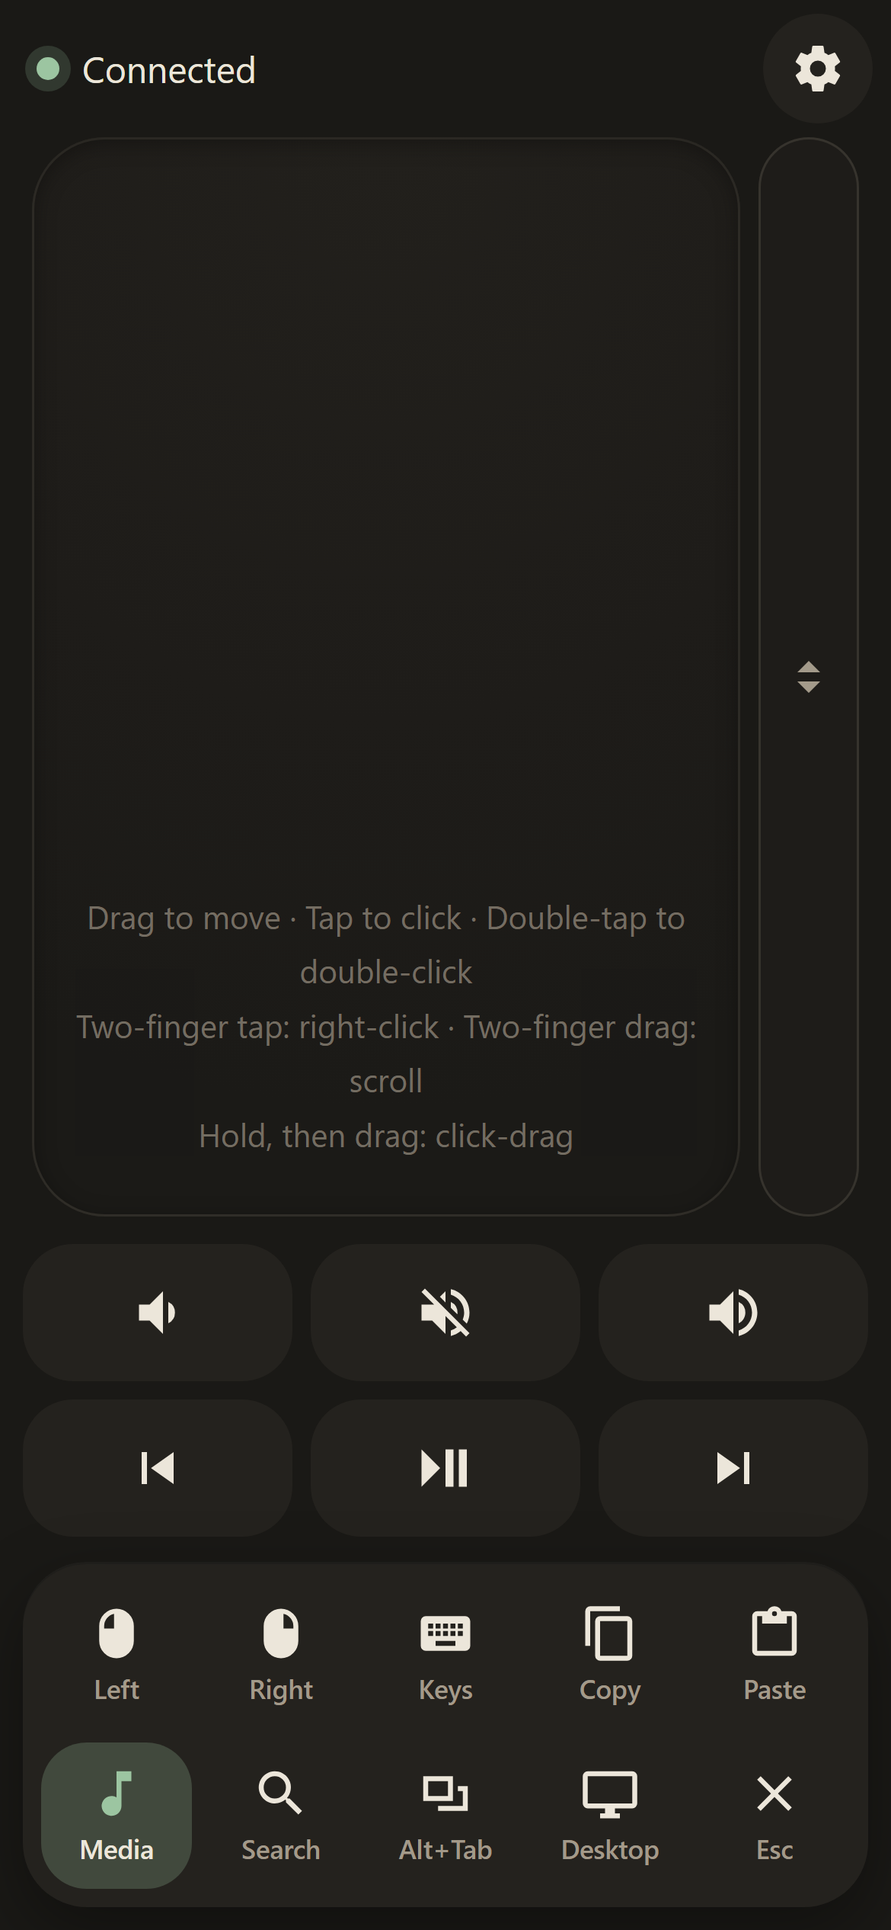
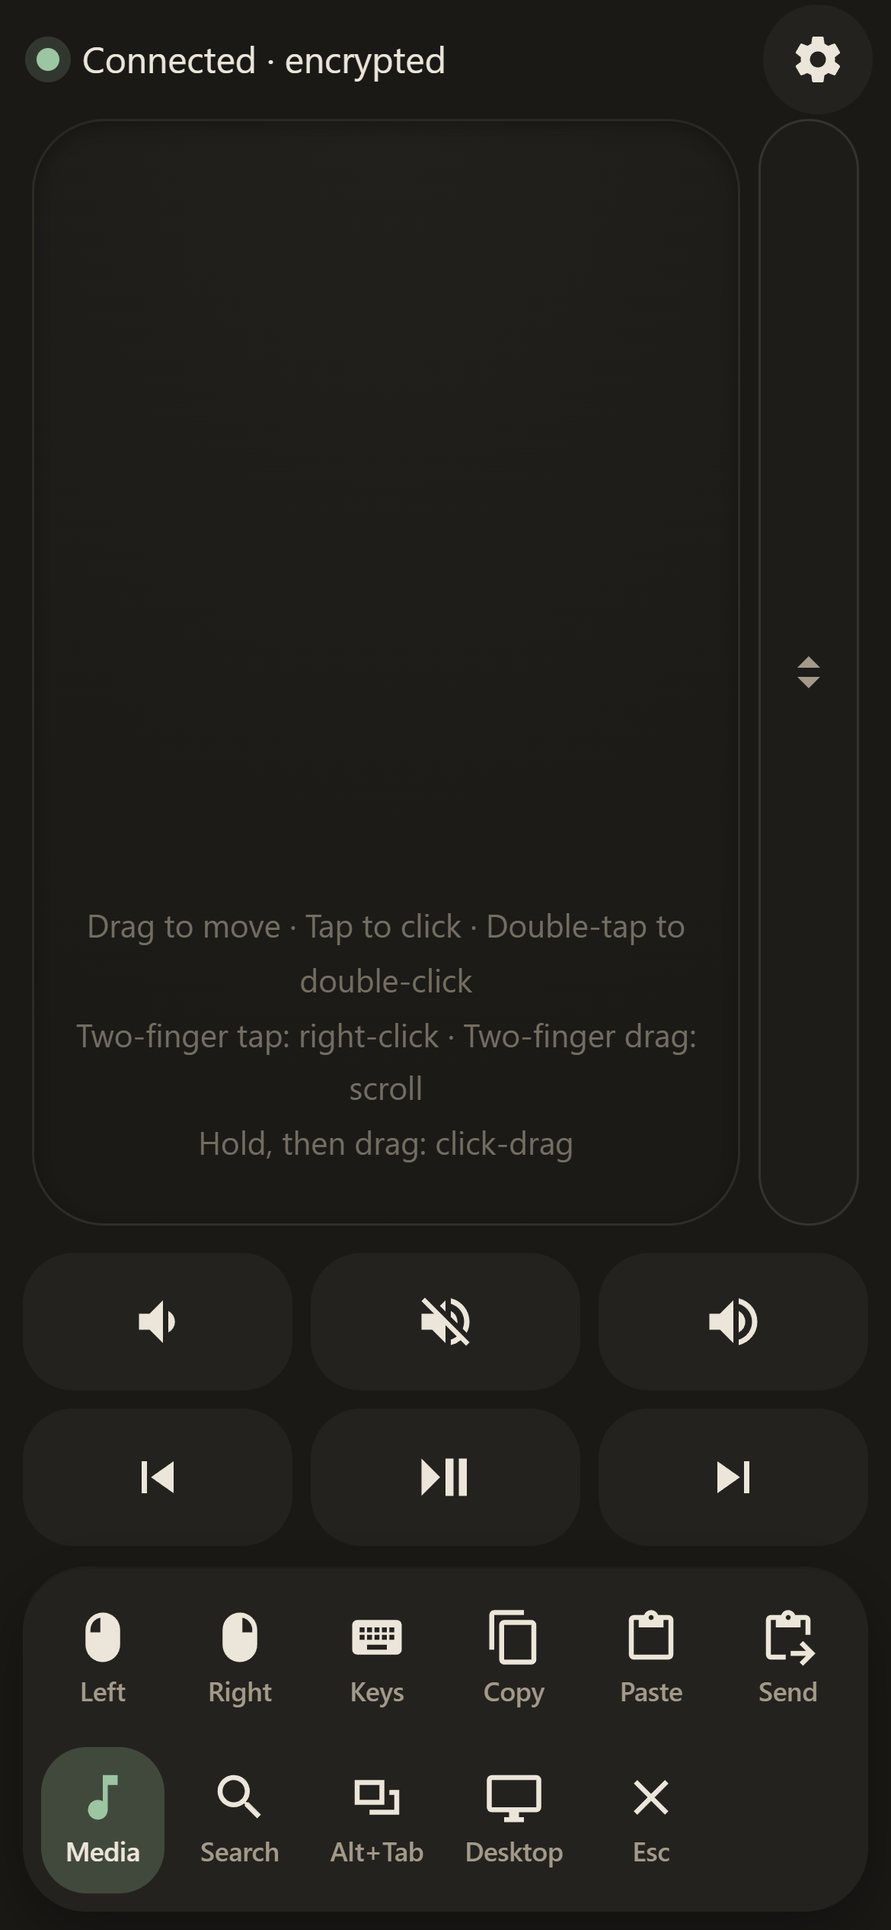
Version 1.8.0: hidden QR code, synced accent colours, neon drag edge
- The QR code stays hidden until "Show QR encryption code" is clicked,
  since it holds the encryption key.
- The QR code is drawn in light squares on black instead of black on
  white, so it fits the dark window.
- Colour dots above the button pick the QR and PIN colour from the
  phone app's accent colours. The choice is saved in settings.json.
- New "accent" message both ways: picking an accent colour on the phone
  recolours the QR code and PIN, and picking a dot on the PC changes the
  accent colour on every connected phone.
- Six more accent colours (Lime, Sky, Orchid, Peach, Slate, Cream),
  shown in two rows of 7.
- Holding to drag lights the trackpad edges with a thick neon line in
  the accent colour.
- New phone screenshots in docs/.

diff --git a/client/app.js b/client/app.js
@@ -221,6 +221,7 @@
             showToast('Not encrypted. Scan the QR code on the PC to encrypt the connection.', { ms: 6000 });
           }
           hidePin();
+          sendAccent();
           startPing();
           maybeShowHomeTip();
           break;
@@ -245,6 +246,13 @@
           break;
         case 'action_ok':
           onActionOk(msg.ref);
+          break;
+        case 'accent': // picked in the PC window
+          if (ACCENTS.some(([, c]) => c === msg.color) && settings.accent !== msg.color) {
+            settings.accent = msg.color;
+            renderSettings();
+            saveSettings();
+          }
           break;
         case 'error':
           console.warn('Mousette server error:', msg.code, msg.message);
@@ -671,6 +679,8 @@
   const ACCENTS = [
     ['Sage', '#9cc5a1'], ['Blue', '#7fb8e0'], ['Violet', '#b5a3e0'], ['Amber', '#e3b866'],
     ['Rose', '#e3a0b4'], ['Coral', '#e39a8a'], ['Teal', '#7cc7bd'], ['Sand', '#d6c7a8'],
+    ['Lime', '#b5d66e'], ['Sky', '#8fd0ec'], ['Orchid', '#d79be0'], ['Peach', '#f0b48a'],
+    ['Slate', '#a9b4c2'], ['Cream', '#ece6da'],
   ];
   const swatches = $('swatches');
   for (const [name, color] of ACCENTS) {
@@ -680,9 +690,12 @@
     swatch.setAttribute('aria-label', name);
     swatch.style.setProperty('--c', color);
     swatch.dataset.color = color;
-    swatch.addEventListener('click', () => { settings.accent = color; renderSettings(); saveSettings(); });
+    swatch.addEventListener('click', () => { settings.accent = color; renderSettings(); saveSettings(); sendAccent(); });
     swatches.append(swatch);
   }
+
+  // The PC window colours its QR code to match the accent.
+  function sendAccent() { rawSend({ type: 'accent', color: settings.accent }); }
 
   function renderAccent() {
     const accent = ACCENTS.some(([, c]) => c === settings.accent) ? settings.accent : DEFAULT_SETTINGS.accent;

diff --git a/client/style.css b/client/style.css
@@ -131,7 +131,14 @@ svg { width: 24px; height: 24px; fill: currentColor; flex: none; }
   pointer-events: none;
 }
 #trackpad.dragging .drag-badge { opacity: 1; }
-#trackpad.dragging { box-shadow: inset 0 2px 10px rgba(0, 0, 0, .35), inset 0 0 0 2px var(--accent); }
+/* Holding to drag: a thick neon line in the accent colour along the edges (a bright core
+   on a coloured tube), so it's clear the button is held down. */
+#trackpad.dragging {
+  box-shadow: inset 0 0 0 2px color-mix(in srgb, var(--accent) 45%, white),
+              inset 0 0 0 5px var(--accent),
+              inset 0 0 4px 6px color-mix(in srgb, var(--accent) 70%, transparent);
+  transition: box-shadow .15s;
+}
 
 #scroll-strip {
   width: 44px;
@@ -272,12 +279,12 @@ input[type="range"] {
 .field.toggle { display: flex; justify-content: space-between; align-items: center; min-height: 48px; }
 .field.toggle input { width: 28px; height: 28px; accent-color: var(--accent); }
 
-.swatches { display: grid; grid-template-columns: repeat(8, 1fr); gap: 6px; margin-bottom: 14px; }
+.swatches { display: grid; grid-template-columns: repeat(7, 1fr); gap: 6px; margin-bottom: 14px; }
 .swatch { aspect-ratio: 1; min-height: 36px; border-radius: 50%; background: var(--c); position: relative; }
 .swatch::after { content: ""; position: absolute; inset: -4px; border-radius: 50%; border: 2px solid transparent; }
 .swatch[aria-checked="true"]::after { border-color: var(--text); }
 @media (max-width: 400px) {
-  .swatches { grid-template-columns: repeat(4, 1fr); gap: 10px; }
+  .swatches { gap: 8px; }
   .swatch { width: 100%; max-width: 52px; justify-self: center; }
 }
 

diff --git a/server/tray.py b/server/tray.py
@@ -9,6 +9,7 @@ from __future__ import annotations
 import base64
 import ctypes
 import io
+import json
 import logging
 import os
 import queue
@@ -35,6 +36,33 @@ LOG_MAX_BYTES = 1_000_000
 # Comfort theme, as on the phone.
 BG, SURFACE, BORDER = "#1a1916", "#24221e", "#36332d"
 TEXT, MUTED, ACCENT, BAD = "#ece6da", "#a39a8a", "#9cc5a1", "#e3796a"
+# Inverted QR code (light squares on black) so it sits in the dark window. Most phone
+# cameras read inverted codes; switch back to dark=BG, light=TEXT if one does not.
+QR_LIGHT = "#000000"
+# Colours for the QR squares, picked in the window: the phone app's accent colours
+# (ACCENTS in client/app.js), all light enough to scan on black.
+QR_COLORS = {"Sage": ACCENT, "Blue": "#7fb8e0", "Violet": "#b5a3e0", "Amber": "#e3b866",
+             "Rose": "#e3a0b4", "Coral": "#e39a8a", "Teal": "#7cc7bd", "Sand": "#d6c7a8",
+             "Lime": "#b5d66e", "Sky": "#8fd0ec", "Orchid": "#d79be0", "Peach": "#f0b48a",
+             "Slate": "#a9b4c2", "Cream": TEXT}
+SETTINGS_FILE = LOG_FILE.with_name("settings.json")
+
+
+def load_settings() -> dict:
+    try:
+        return json.loads(SETTINGS_FILE.read_text(encoding="utf-8"))
+    except (OSError, ValueError):
+        return {}
+
+
+def save_setting(name: str, value) -> None:
+    settings = load_settings()
+    settings[name] = value
+    try:
+        SETTINGS_FILE.parent.mkdir(parents=True, exist_ok=True)
+        SETTINGS_FILE.write_text(json.dumps(settings, indent=2), encoding="utf-8")
+    except OSError as exc:
+        log.warning("Could not save settings: %s", exc)
 
 _kernel32 = ctypes.WinDLL("kernel32", use_last_error=True)
 _kernel32.CreateMutexW.restype = wintypes.HANDLE
@@ -109,12 +137,14 @@ class TrayApp:
         self.icon = None
         self.quitting = False
         self.told_about_tray = False
+        self.pick_qr_color = None  # set once the window is built
 
     # ---------- start and stop ----------
 
     def run(self) -> int:
         try:
-            self.setup = prepare(self.args, on_clients=lambda c: self.events.put(("clients", c)))
+            self.setup = prepare(self.args, on_clients=lambda c: self.events.put(("clients", c)),
+                                 on_accent=lambda c: self.events.put(("accent", c)))
         except StartupError as exc:
             messagebox.showerror("Mousette", str(exc))
             return 1
@@ -155,6 +185,11 @@ class TrayApp:
                 break
             if kind == "clients":
                 self.show_clients(value)
+            elif kind == "accent":
+                # The phone app's accent colour changed: colour the QR code to match.
+                name = next((n for n, c in QR_COLORS.items() if c == value), None)
+                if name and self.pick_qr_color:
+                    self.pick_qr_color(name)
             elif kind == "show":
                 self.show()
             elif kind == "admin":
@@ -243,19 +278,63 @@ class TrayApp:
         self.status.pack(anchor="w", pady=(2, 14))
         self.show_clients([])
 
-        card = tk.Frame(root, bg="#ffffff", padx=6, pady=6)
+        # The QR code holds the encryption key, so it stays hidden until asked for.
+        qr_area = tk.Frame(root, bg=BG)
+        qr_area.pack(pady=(0, 12))
+        qr_box = tk.Frame(qr_area, bg=BG)
+        card = tk.Frame(qr_box, bg=QR_LIGHT, padx=6, pady=6)
         card.pack()
-        buffer = io.BytesIO()
-        segno.make(s.qr_url, error="l", boost_error=False).save(
-            buffer, kind="png", scale=round(6 * scale), border=3, dark="#000000", light="#ffffff")
-        self.qr_image = tk.PhotoImage(data=base64.b64encode(buffer.getvalue()))
-        tk.Label(card, image=self.qr_image, bg="#ffffff", bd=0).pack()
-        label(root, "Scan with the phone camera (encrypted connection)", 10, MUTED).pack(pady=(8, 12))
+        qr = segno.make(s.qr_url, error="l", boost_error=False)
+        qr_label = tk.Label(card, bg=QR_LIGHT, bd=0)
+        qr_label.pack()
+        label(qr_box, "Scan with the phone camera (encrypted connection)", 10, MUTED).pack(pady=(8, 0))
+
+        color_row = tk.Frame(qr_area, bg=BG)
+        color_row.pack(pady=(0, 10))
+        swatches = {}
+
+        def set_color(name):
+            buffer = io.BytesIO()
+            qr.save(buffer, kind="png", scale=round(6 * scale), border=3,
+                    dark=QR_COLORS[name], light=QR_LIGHT)
+            self.qr_image = tk.PhotoImage(data=base64.b64encode(buffer.getvalue()))
+            qr_label.config(image=self.qr_image)
+            for other, swatch in swatches.items():
+                swatch.config(highlightbackground=TEXT if other == name else BORDER)
+            pin_value.config(fg=QR_COLORS[name])  # the PIN shows the accent colour too
+
+        def pick_color(name):
+            set_color(name)
+            save_setting("qr_color", name)
+            # Phones take the same accent colour, so the PC and the phone app always match.
+            s.app.state.send_accent(QR_COLORS[name])
+
+        for i, (name, color) in enumerate(QR_COLORS.items()):
+            swatches[name] = tk.Button(
+                color_row, bg=color, activebackground=color, relief="flat", bd=0, cursor="hand2",
+                width=2, highlightthickness=2, command=lambda n=name: pick_color(n))
+            swatches[name].grid(row=i // 7, column=i % 7, padx=3, pady=3)
+        self.pick_qr_color = pick_color
+
+        def toggle_qr():
+            if qr_box.winfo_manager():
+                qr_box.pack_forget()
+                qr_button.config(text="Show QR encryption code")
+            else:
+                qr_box.pack(pady=(10, 0))
+                qr_button.config(text="Hide QR encryption code")
+
+        qr_button = self.button(qr_area, "Show QR encryption code", toggle_qr)
+        qr_button.config(font=("Segoe UI", 12, "bold"), padx=24, pady=10)
+        qr_button.pack()
 
         pin_row = tk.Frame(root, bg=BG)
         pin_row.pack(pady=(0, 14))
         label(pin_row, "PIN", 11, MUTED).pack(side="left", padx=(0, 12))
-        label(pin_row, f"{s.pin[:3]} {s.pin[3:]}", 26, bold=True).pack(side="left")
+        pin_value = label(pin_row, f"{s.pin[:3]} {s.pin[3:]}", 26, bold=True)
+        pin_value.pack(side="left")
+        saved = load_settings().get("qr_color")
+        set_color(saved if saved in QR_COLORS else "Sage")
 
         rows = [("Open on your phone", url(s.host, s.port))]
         if s.hostname:

diff --git a/server/app.py b/server/app.py
@@ -121,11 +121,14 @@ class Channel:
 
 def create_app(backend: InputBackend, pin: str, addresses: list[str] | None = None,
                key: bytes | None = None,
-               on_clients: Callable[[list[tuple[str, bool]]], None] | None = None) -> FastAPI:
+               on_clients: Callable[[list[tuple[str, bool]]], None] | None = None,
+               on_accent: Callable[[str], None] | None = None) -> FastAPI:
     """`addresses` are the "host:port" forms the phone may open (the .local name and the IP).
     When given, requests naming any other host are refused, which stops DNS-rebinding
     tricks from websites. `key` enables encrypted connections (see encryption.py).
-    `on_clients` gets the logged-in phones as (address, encrypted) whenever they change."""
+    `on_clients` gets the logged-in phones as (address, encrypted) whenever they change.
+    `on_accent` gets the accent colour ("#rrggbb") whenever a phone sends one;
+    `app.state.send_accent(color)` sends one to every phone."""
     # Browsers leave out ":80", so accept that form too.
     allowed = None if addresses is None else {a for addr in addresses for a in (addr, addr.removesuffix(":80"))}
     # The page may be opened under one of these and connect through another: after a long
@@ -141,6 +144,14 @@ def create_app(backend: InputBackend, pin: str, addresses: list[str] | None = No
     # Handed out after a correct PIN; valid until the server stops, like the PIN itself.
     tokens: set[str] = set()
     clients: dict[int, tuple[str, bool]] = {}  # id(channel) -> (address, encrypted)
+    channels: dict[int, Channel] = {}  # the logged-in phones, to send them the accent colour
+    loops: list[asyncio.AbstractEventLoop] = []  # the server's event loop, once a phone connects
+
+    def send_accent(color: str) -> None:
+        """Tells every phone the accent colour picked on the PC. Safe to call from any thread."""
+        if loops:
+            for ch in list(channels.values()):
+                asyncio.run_coroutine_threadsafe(ch.send(protocol.make("accent", color=color)), loops[0])
 
     def clients_changed() -> None:
         if on_clients:
@@ -275,8 +286,10 @@ def create_app(backend: InputBackend, pin: str, addresses: list[str] | None = No
                 return
             log.info("Client connected: %s%s", host, " (encrypted)" if ch.session else "")
             clients[id(ch)] = (host, ch.session is not None)
+            channels[id(ch)] = ch
             clients_changed()
             loop = asyncio.get_running_loop()
+            loops[:] = [loop]
             while True:
                 raw = await ch.recv()
                 try:
@@ -290,6 +303,9 @@ def create_app(backend: InputBackend, pin: str, addresses: list[str] | None = No
                     await ch.send(protocol.make("auth_ok", **ok_fields))
                 elif type_ == "enc_hello":
                     await ch.send(protocol.error("bad_state", "enc_hello must be the first message"))
+                elif type_ == "accent":
+                    if on_accent:
+                        on_accent(fields["color"])
                 else:
                     try:
                         await loop.run_in_executor(executor, backend.execute, type_, fields)
@@ -307,6 +323,7 @@ def create_app(backend: InputBackend, pin: str, addresses: list[str] | None = No
             log.warning("Closed connection from %s: %s", host, exc)
             await ws.close(CLOSE_BAD_FRAME)
         finally:
+            channels.pop(id(ch), None)
             if clients.pop(id(ch), None):
                 clients_changed()
             log.info("Client disconnected: %s", host)
@@ -317,4 +334,5 @@ def create_app(backend: InputBackend, pin: str, addresses: list[str] | None = No
         return JSONResponse({"name": local_name})
 
     app.mount("/", StaticFiles(directory=CLIENT_DIR, html=True), name="client")
+    app.state.send_accent = send_accent
     return app

diff --git a/server/protocol.py b/server/protocol.py
@@ -165,6 +165,16 @@ def _validate_enc_hello(msg: dict) -> dict:
     return {"nonce": raw}
 
 
+def _validate_accent(msg: dict) -> dict:
+    # The accent colour picked in the phone app, as "#rrggbb"; the PC window colours its
+    # QR code to match.
+    color = msg.get("color")
+    if not (isinstance(color, str) and len(color) == 7 and color[0] == "#"
+            and all(c in "0123456789abcdefABCDEF" for c in color[1:])):
+        raise ProtocolError("bad_field", "'color' must be a colour like '#9cc5a1'")
+    return {"color": color.lower()}
+
+
 def _validate_ping(msg: dict) -> dict:
     # "id" is optional and echoed back verbatim in the pong.
     if "id" in msg and not isinstance(msg["id"], (int, float, str)):
@@ -176,6 +186,7 @@ _VALIDATORS = {
     "auth": _validate_auth,
     "enc_hello": _validate_enc_hello,
     "ping": _validate_ping,
+    "accent": _validate_accent,
     "move": _validate_move,
     "click": _validate_button,
     "double_click": _validate_double_click,
@@ -192,7 +203,7 @@ _VALIDATORS = {
 }
 
 MESSAGE_TYPES = tuple(_VALIDATORS)
-INPUT_TYPES = tuple(t for t in MESSAGE_TYPES if t not in ("auth", "enc_hello", "ping"))
+INPUT_TYPES = tuple(t for t in MESSAGE_TYPES if t not in ("auth", "enc_hello", "ping", "accent"))
 # Actions the server confirms with "action_ok", so the client can show feedback.
 ACTION_TYPES = ("task_manager", "shutdown", "cancel_shutdown", "paste_text")
 

diff --git a/server/__main__.py b/server/__main__.py
@@ -135,9 +135,11 @@ def setup_logging() -> None:
 
 
 def prepare(args: argparse.Namespace,
-            on_clients: Callable[[list[tuple[str, bool]]], None] | None = None) -> Setup:
+            on_clients: Callable[[list[tuple[str, bool]]], None] | None = None,
+            on_accent: Callable[[str], None] | None = None) -> Setup:
     """Picks the address, port and PIN and builds the app. `on_clients` gets the phones logged
-    in right now as (address, encrypted) whenever that changes."""
+    in right now as (address, encrypted) whenever that changes; `on_accent` gets the phone
+    app's accent colour."""
     candidates = [] if args.host else lan_ip_candidates()
     host = args.host or (candidates[0] if candidates else None)
     if host is None:
@@ -160,7 +162,7 @@ def prepare(args: argparse.Namespace,
     backend = DryRunBackend() if args.dry_run else PynputBackend()
     names = [hostname, host] if hostname else [host]
     app = create_app(backend, pin, addresses=[f"{name}:{port}" for name in names], key=key,
-                     on_clients=on_clients)
+                     on_clients=on_clients, on_accent=on_accent)
     return Setup(args, host, port, pin, key, hostname, candidates, mdns, app)
 
 

diff --git a/server/__init__.py b/server/__init__.py
@@ -1,3 +1,3 @@
 """Mousette PC server."""
 
-__version__ = "1.7.0"
+__version__ = "1.8.0"

diff --git a/README.md b/README.md
@@ -58,7 +58,7 @@ On Windows, avoid very deeply nested folders: Windows has a 260-character path l
 ## 2. Start it
 
 **`Mousette.exe`:** double-click it. The Mousette window opens and shows:
-- the QR code and the PIN
+- the QR code (click **Show QR encryption code**: it holds the encryption key, so it stays hidden until you ask) and the PIN
 - the addresses to open on the phone
 - whether a phone is connected, and whether the connection is encrypted
 
@@ -74,7 +74,7 @@ To control admin windows such as Task Manager, the On-Screen Keyboard and instal
 
 ```
 ==============================================
-  Mousette 1.7.0 is running
+  Mousette 1.8.0 is running
   Open on your phone:    http://192.168.1.23
   iPhone/iPad also:      http://mousette.local
   PIN:                  482915
@@ -131,7 +131,7 @@ New-NetFirewallRule -DisplayName "Mousette" -Direction Inbound -Protocol UDP -Lo
 ## 4. Open it on the phone
 
 1. Make sure the phone is on the **same Wi-Fi** as the PC (the same router).
-2. **Easiest, and encrypted:** open the **Camera** app (on Android, the camera, or **Google Lens** if the camera doesn't react), point it at the QR code in the Mousette window and tap the link. Mousette opens and connects by itself, no typing, and the connection is encrypted.
+2. **Easiest, and encrypted:** open the **Camera** app (on Android, the camera, or **Google Lens** if the camera doesn't react), click **Show QR encryption code** in the Mousette window, point the camera at the QR code and tap the link. Mousette opens and connects by itself, no typing, and the connection is encrypted.
 3. **Or type it:** in the browser (Safari on iPhone/iPad, Chrome on Android), open the address from **Open on your phone** (on iPhone/iPad also `http://mousette.local`) and enter the 6-digit PIN. This connects **without** encryption; scan the QR code once to encrypt it.
 
 The dot at the top turns **green** when you're connected, and it says **Connected · encrypted** when the connection is encrypted.
@@ -153,7 +153,7 @@ Bottom bar buttons: **Left**, **Right**, **Keys** (opens the on-screen keyboard;
 
 **Send text from your phone:** copy something on the phone, tap **Send**, paste it into the box and tap **Paste on PC**. It's pasted where the cursor is on the PC, in one go, line breaks included. You can also paste while **Keys** is open (for example from the keyboard's clipboard on Android): it's pasted on the PC the same way.
 
-The gear icon opens settings for **cursor sensitivity**, **scroll speed**, the **scroll strip**, the **accent color** and the **bar buttons**. These are saved on the phone. With the scroll strip turned on, a narrow bar appears to the right of the trackpad: drag one finger up or down on it to scroll.
+The gear icon opens settings for **cursor sensitivity**, **scroll speed**, the **scroll strip**, the **accent color** and the **bar buttons**. These are saved on the phone. The accent color also colors the QR code in the Mousette window, and the color dots above **Show QR encryption code** change it on the phone: the PC and the phone always match. With the scroll strip turned on, a narrow bar appears to the right of the trackpad: drag one finger up or down on it to scroll.
 
 The settings also have **PC** buttons:
 - **Task Manager** opens Task Manager. Mousette must run as administrator: it then starts Task Manager itself, with admin rights, so Windows doesn't ask for your PIN or password. (Ctrl+Shift+Esc would let Windows start it, and if you set User Account Control to ask for a PIN, that prompt can only be answered on the PC.)

diff --git a/PROTOCOL.md b/PROTOCOL.md
@@ -38,6 +38,7 @@ The server only accepts requests whose `Host` header is the address it printed, 
 | `auth` | `pin`: string, **or** `token`: string | Authenticate. Must be first (or first after the encryption handshake). `token` is one an earlier `auth_ok` returned; it lets a client log in again without the PIN. |
 | `enc_hello` | `nonce`: 16 random bytes, base64url without padding | Start an encrypted connection. Only allowed as the very first message; see [Encryption](#encryption). |
 | `ping` | `id`: number or string, optional | Server replies `pong` with the same `id`. |
+| `accent` | `color`: `"#rrggbb"` | The accent colour picked in the web client. The PC window colours its QR code to match when it is one of the client's accent presets. The client sends it after `auth_ok` and whenever the user picks another colour. No reply. |
 | `move` | `dx`, `dy`: number (px, ±4000) | Move the cursor relative to where it is. Fractions are allowed; the server carries sub-pixel remainders over, so many small moves add up correctly. |
 | `click` | `button`: `"left"`, `"right"` or `"middle"` (default `"left"`) | Single click. |
 | `double_click` | `button` (default `"left"`) | Double click. |
@@ -82,6 +83,7 @@ Examples:
 | `auth_ok` | `protocol`: 1; `token`: string (only after a PIN); optional `direct`: the server's IP address and port | Authenticated; input is accepted from now on. Keep `token` to log in again later: it is valid until the server stops. If the page's host name (`mousette.local`) stops resolving, connect to `ws://<direct>/ws` instead: the server accepts its own page from any of its addresses. |
 | `auth_failed` | `reason`: `"wrong_pin"`, `"token_expired"` (the server restarted since the token was issued) or `"locked_out"`; `retry_after`: seconds (only when locked out) | The socket closes right after this. |
 | `pong` | `id`: the id from the ping, or null | Reply to `ping`. |
+| `accent` | `color`: `"#rrggbb"` | The accent colour picked in the PC window, sent to every logged-in client. The web client takes it when it is one of its presets. |
 | `action_ok` | `ref`: `"task_manager"`, `"shutdown"`, `"cancel_shutdown"` or `"paste_text"` | The action was carried out. |
 | `error` | `code`, `message`, optional `ref` | The message was rejected. The connection stays open, except for `auth_required`. |
 
